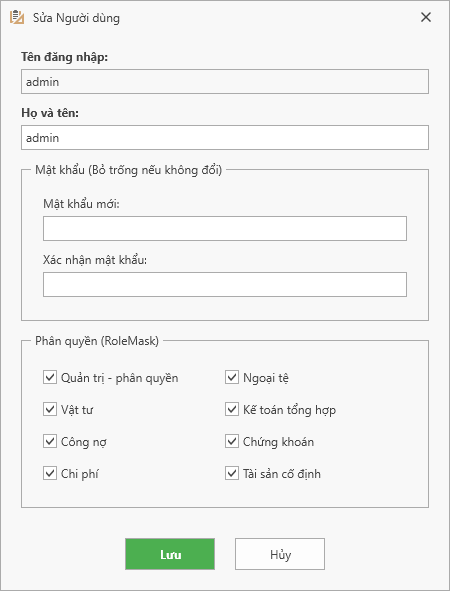
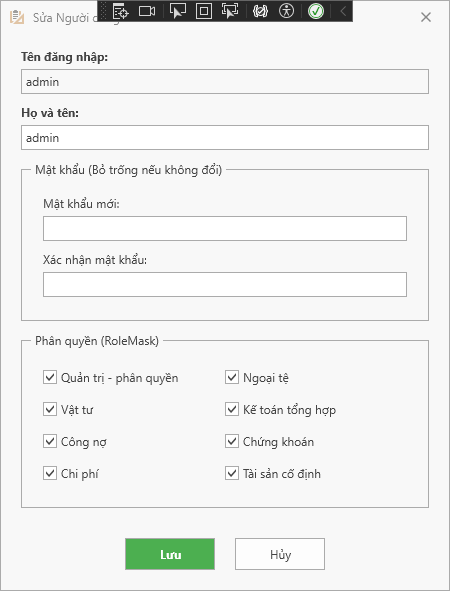
docs: add screenshots for voucher entry, inventory operations, and update licensing images

diff --git a/docs/accounting-operations/voucher-entry.md b/docs/accounting-operations/voucher-entry.md
@@ -8,6 +8,9 @@ outline: deep
 
 Màn hình Chứng từ (`VoucherEntryWindow`) là nơi kế toán viên thực hiện phần lớn các giao dịch hàng ngày. Hệ thống hỗ trợ nhập đồng thời nhiều loại chứng từ kế toán trong một giao diện thống nhất.
 
+![Giao diện nhập chứng từ đa năng](/images/accounting-operations-voucher-entry-overview.png)
+<p class="img-caption">Hình 3.1: Giao diện tổng quan màn hình nhập chứng từ đa năng (JournalVoucher)</p>
+
 ---
 
 ## 1. Cấu Trúc Giao Diện Chứng Từ
@@ -23,11 +26,18 @@ Giao diện được chia thành 3 phần khoa học:
    * **Số tiền (`Amount`)**: Số tiền phát sinh (tự động đọc thành chữ ở góc dưới).
    * **Đối tượng Nợ / Đối tượng Có**: Phục vụ theo dõi công nợ chi tiết 2 chiều.
    * **Mã công trình / Khoản mục chi phí**: Phục vụ tập hợp chi phí giá thành.
+
+![Lưới định khoản chi tiết](/images/accounting-operations-voucher-entry-detail-grid.png)
+<p class="img-caption">Hình 3.2: Lưới định khoản chi tiết nợ có và theo dõi công nợ hai chiều</p>
+
 3. **Thanh công cụ tác nghiệp:**
    * Nút **Thêm mới** (`F4`)
    * Nút **Lưu chứng từ** (`Ctrl + S`)
    * Nút **In chứng từ** (In Phiếu thu, Phiếu chi, Ủy nhiệm chi chuẩn mực)
    * Nút **Xóa chứng từ** (`Ctrl + Delete`)
+
+![Xem trước khi in chứng từ](/images/accounting-operations-voucher-entry-print-preview.png)
+<p class="img-caption">Hình 3.3: Xem trước và in mẫu chứng từ chuẩn mực DevExpress XtraReports</p>
 
 ---
 

diff --git a/docs/accounting-operations/purchase-sales.md b/docs/accounting-operations/purchase-sales.md
@@ -17,9 +17,15 @@ NewaccNet hỗ trợ mô hình hạch toán kết hợp giữa chứng từ kho 
   * **Hạch toán Có:** TK `331` (Phải trả người bán) hoặc `1111`, `1121` (Tiền mặt/Ngân hàng).
 * Hệ thống tự động ghi nhận số lượng và đơn giá vào Thẻ kho và Bảng tổng hợp nhập xuất tồn.
 
+![Phiếu nhập kho mua hàng](/images/accounting-operations-purchase-sales-inventory-receipt.png)
+<p class="img-caption">Hình 3.4: Màn hình lập phiếu nhập kho mua hàng hóa, nguyên vật liệu</p>
+
 ---
 
 ## 2. Phiếu Xuất Kho Bán Hàng
 * Khi bán hàng hóa, thành phẩm cho khách hàng:
   * **Bút toán Doanh thu:** Nợ TK `131` / Có TK `511`, Có TK `33311` (Thuế GTGT đầu ra).
   * **Bút toán Giá vốn:** Nợ TK `632` / Có TK `156`, `155` (Hệ thống hỗ trợ tự động tính giá vốn cuối kỳ theo Bình quân gia quyền).
+
+![Phiếu xuất kho bán hàng](/images/accounting-operations-purchase-sales-inventory-issue.png)
+<p class="img-caption">Hình 3.5: Màn hình lập phiếu xuất kho bán hàng và xuất dùng sản xuất</p>
